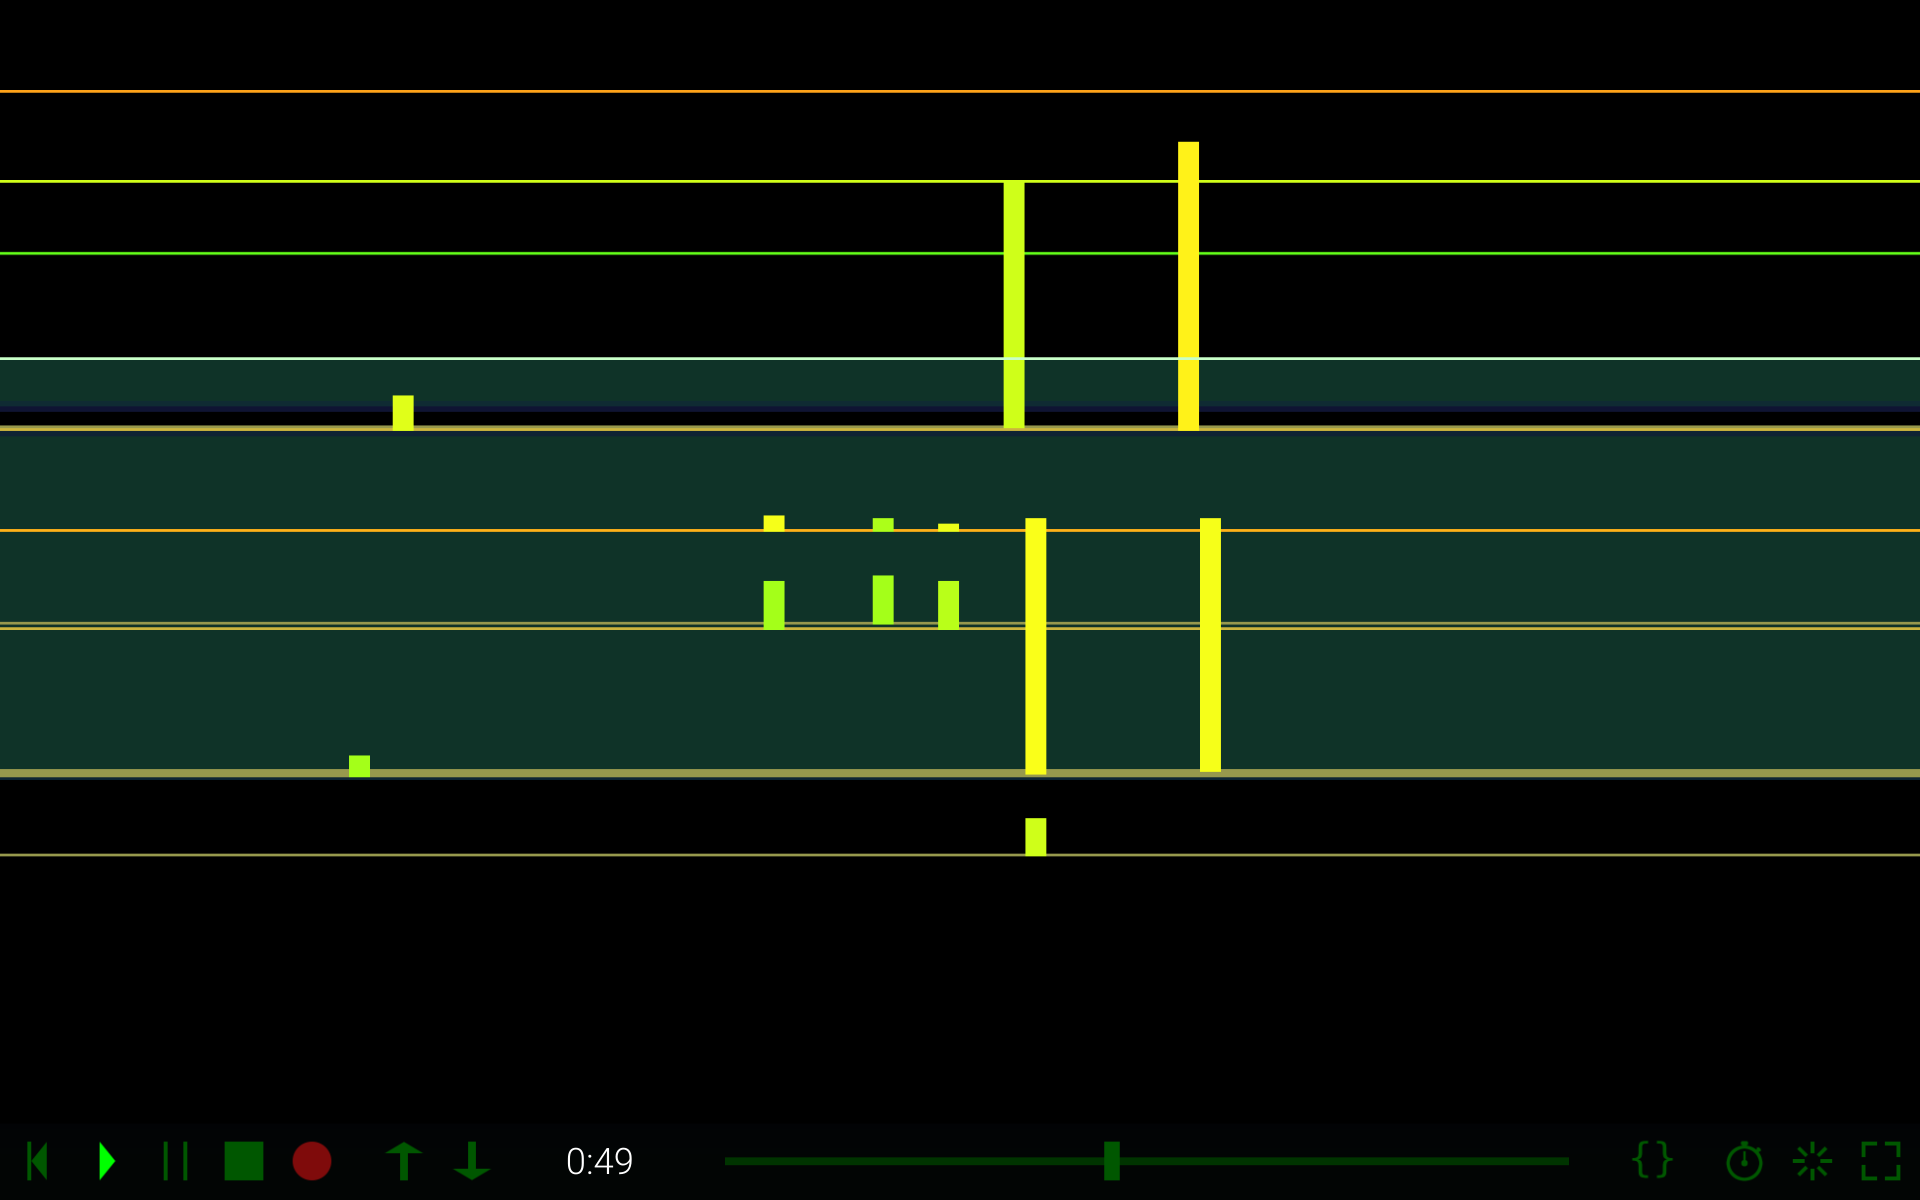
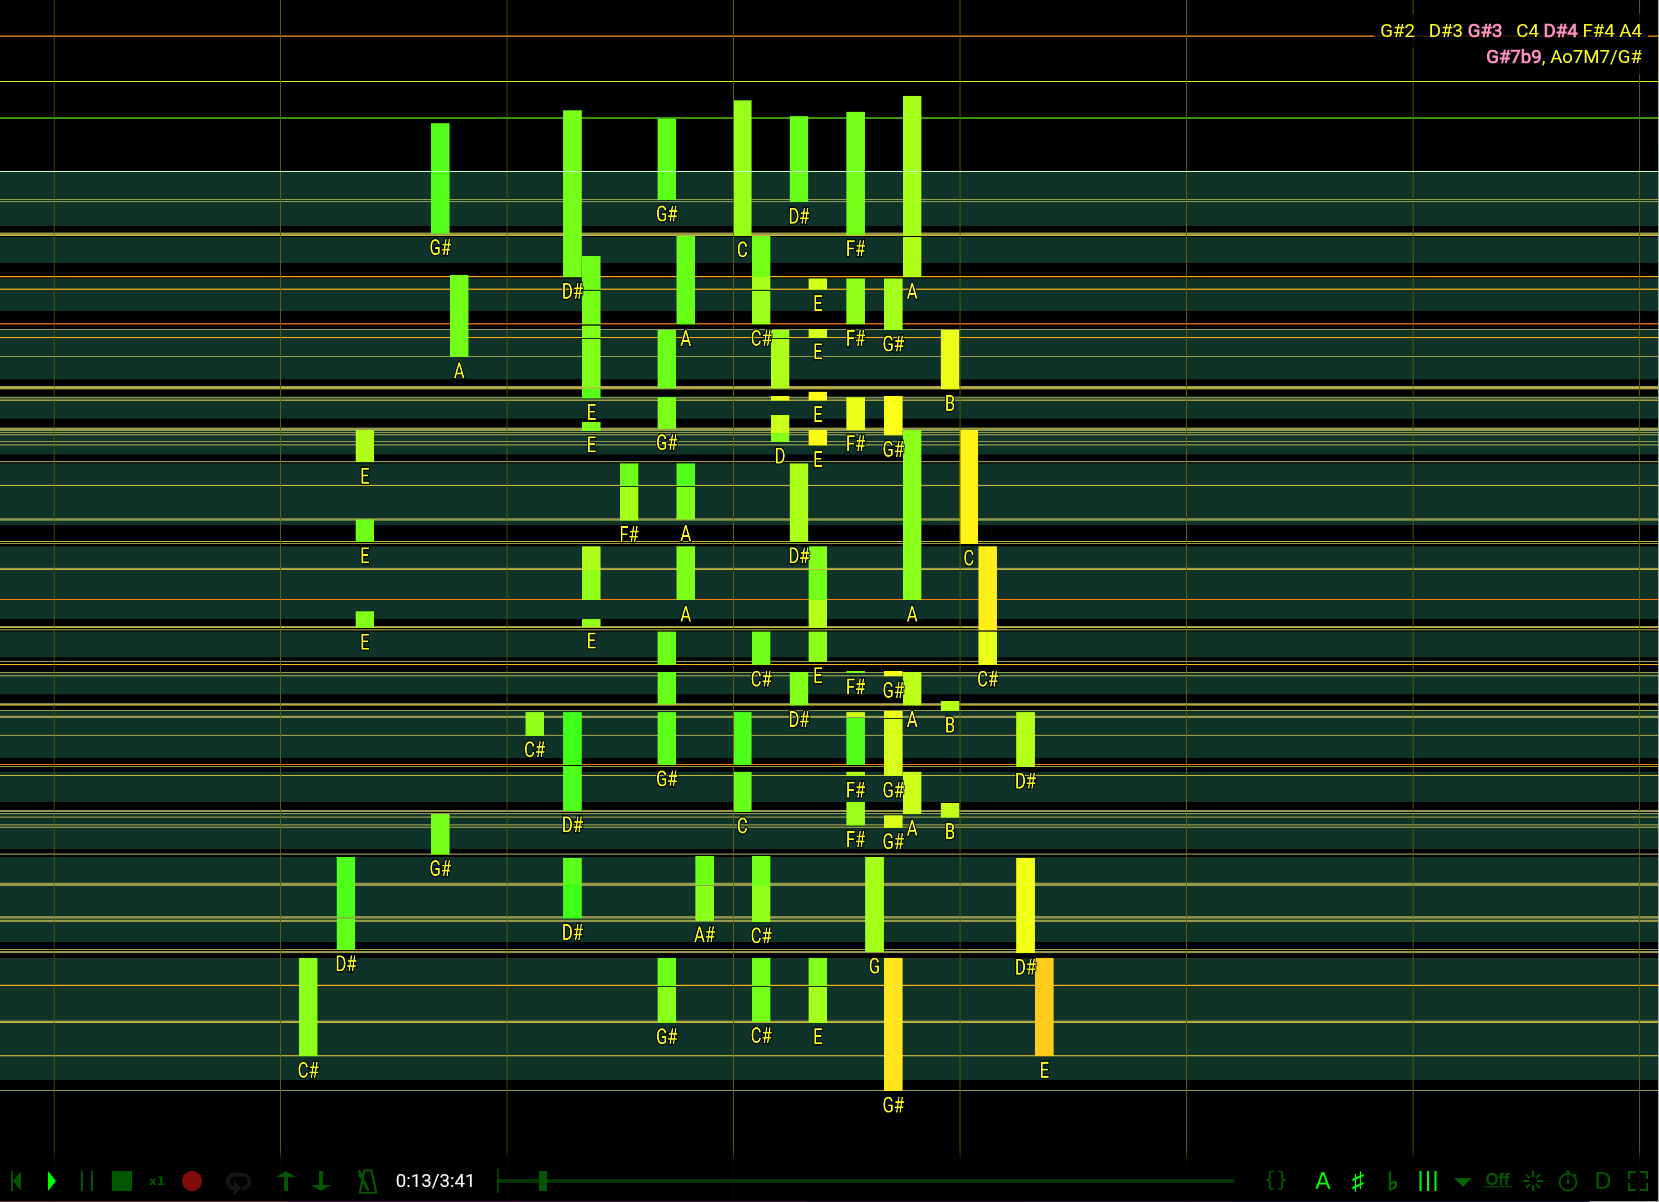
update readme

diff --git a/README.md b/README.md
@@ -4,32 +4,30 @@
 
 [MVV](https://omakoto.github.io/mvv/) is an online MIDI input visualizer, recorder and player, created for piano learners.
 
-It visualizes:
-- Note events (which keys are pressed), with intencity (aka velocity)
-- Pedal depth (sosutenuto pedelanot supported yet)
+It shows:
+
+- Played notes with intensity
+  - With note names
+  - With chords analysis (using https://github.com/tonaljs/tonal)
+- Damper pedal
+- Sostenuto pedal
+- Expression control (for the digital sax, etc)
+
+Recording features:
+
+- Record and Playback, with saving & loading as a `*.mid` file
+- Playback speed control
+- "Always recording": Always record all input events up to 20 minutes. Press 'B' (or the red "replay" button) to move it the recording buffer, so you can play it back.
+
+Other features:
+
+- Metronome w/ Polyrhythm support (using https://tonejs.github.io/ for audio feedback)
 
 <a href="https://omakoto.github.io/mvv/">
-  <img src="mvv-screenshot.png" alt="MVV screenshot" style="width: 80%">
+  <img src="mvv-screenshot.png" alt="MVV screenshot" style="width: 60%">
 </a>
 
-- TODO: update the screenshot
-
-## Features
-
-- Show notes with velocity
-- Show note names (C, D, E, ...)
-- Chords (w/ https://github.com/tonaljs/tonal)
-- Record / Play / Save & Load as a `*.mid` file
-- Metronome (w/ https://tonejs.github.io/ for audio feedback)
-  - Polyrhythm support
 
 ## Shortcut Keys
 
 Press '?' for help
-
-## TODO
-
-- [X] Playback speed (1/4, 1/2, x2, x4)
-- [X] Playback
-  - [X] Gap detection and shortcut keys to prev/next gaps
-  - [X] Show gaps on the playback bar and snap touch.
